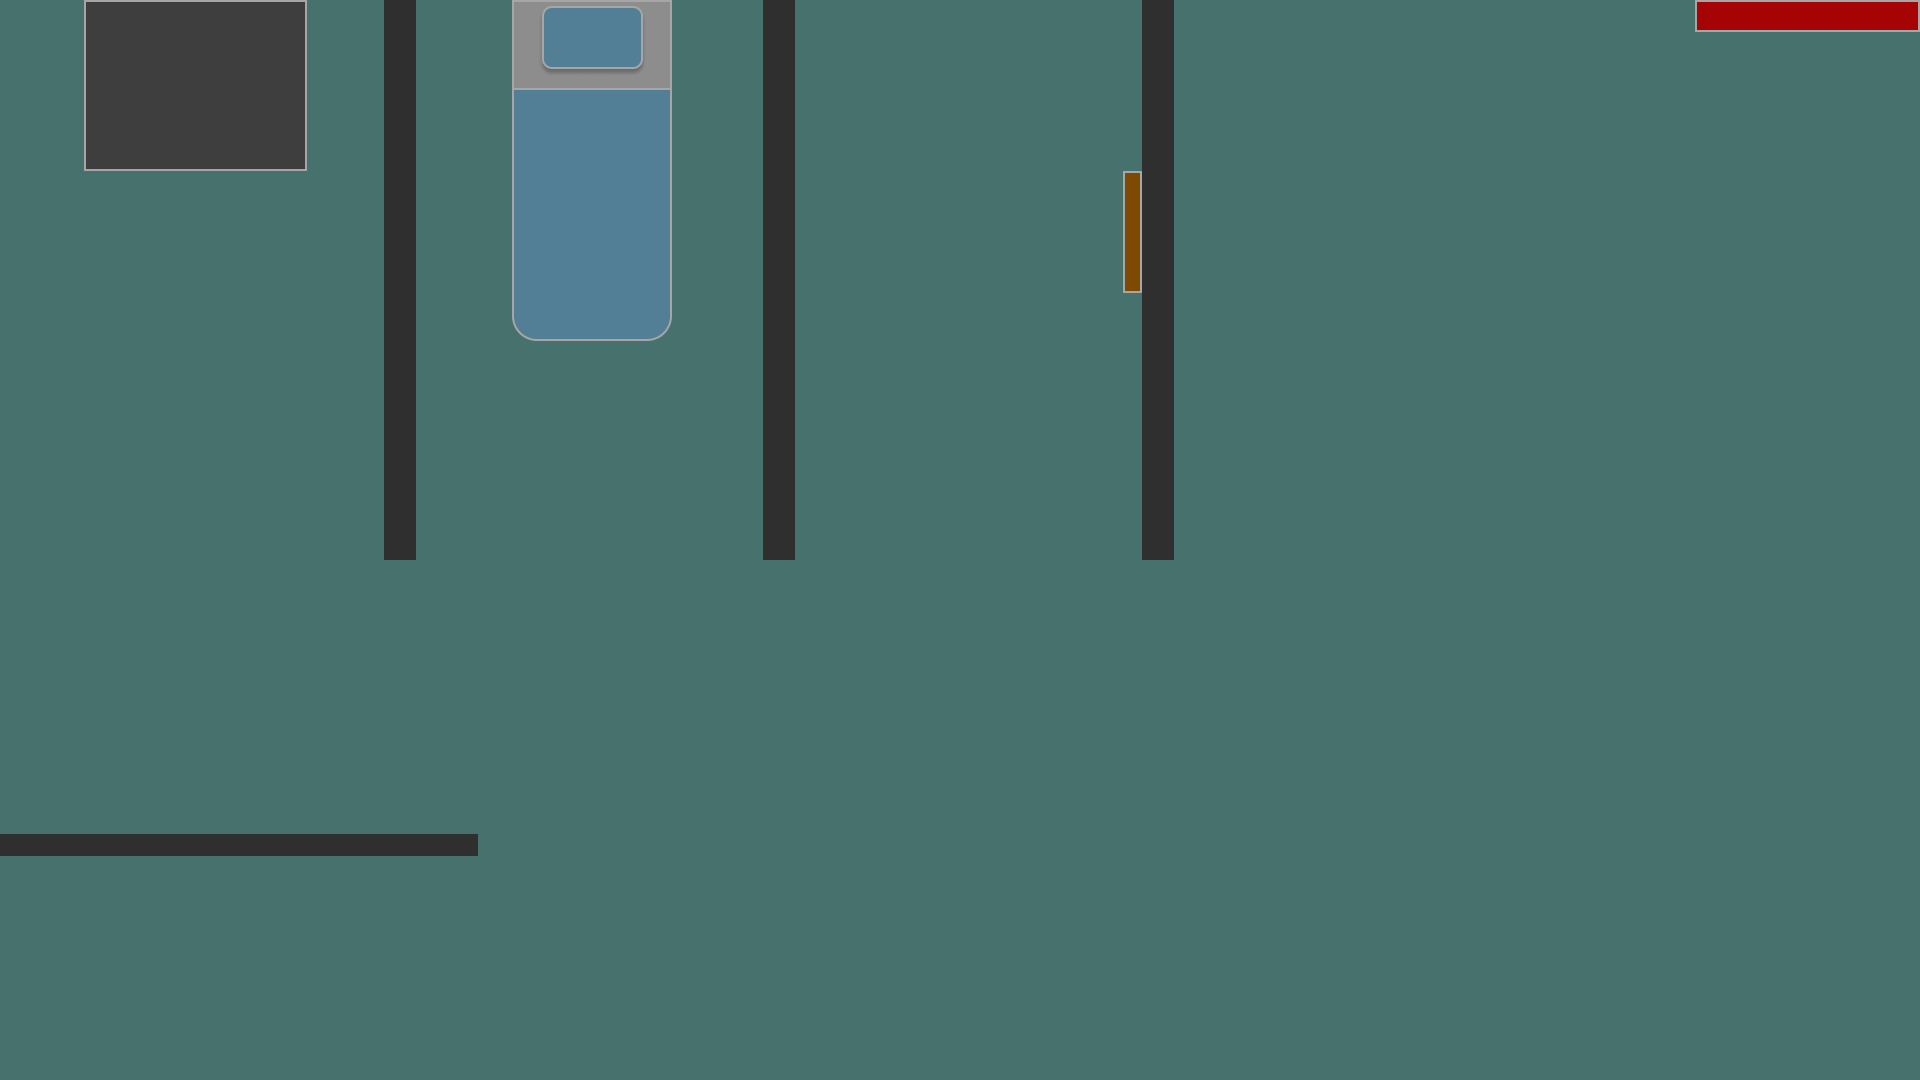
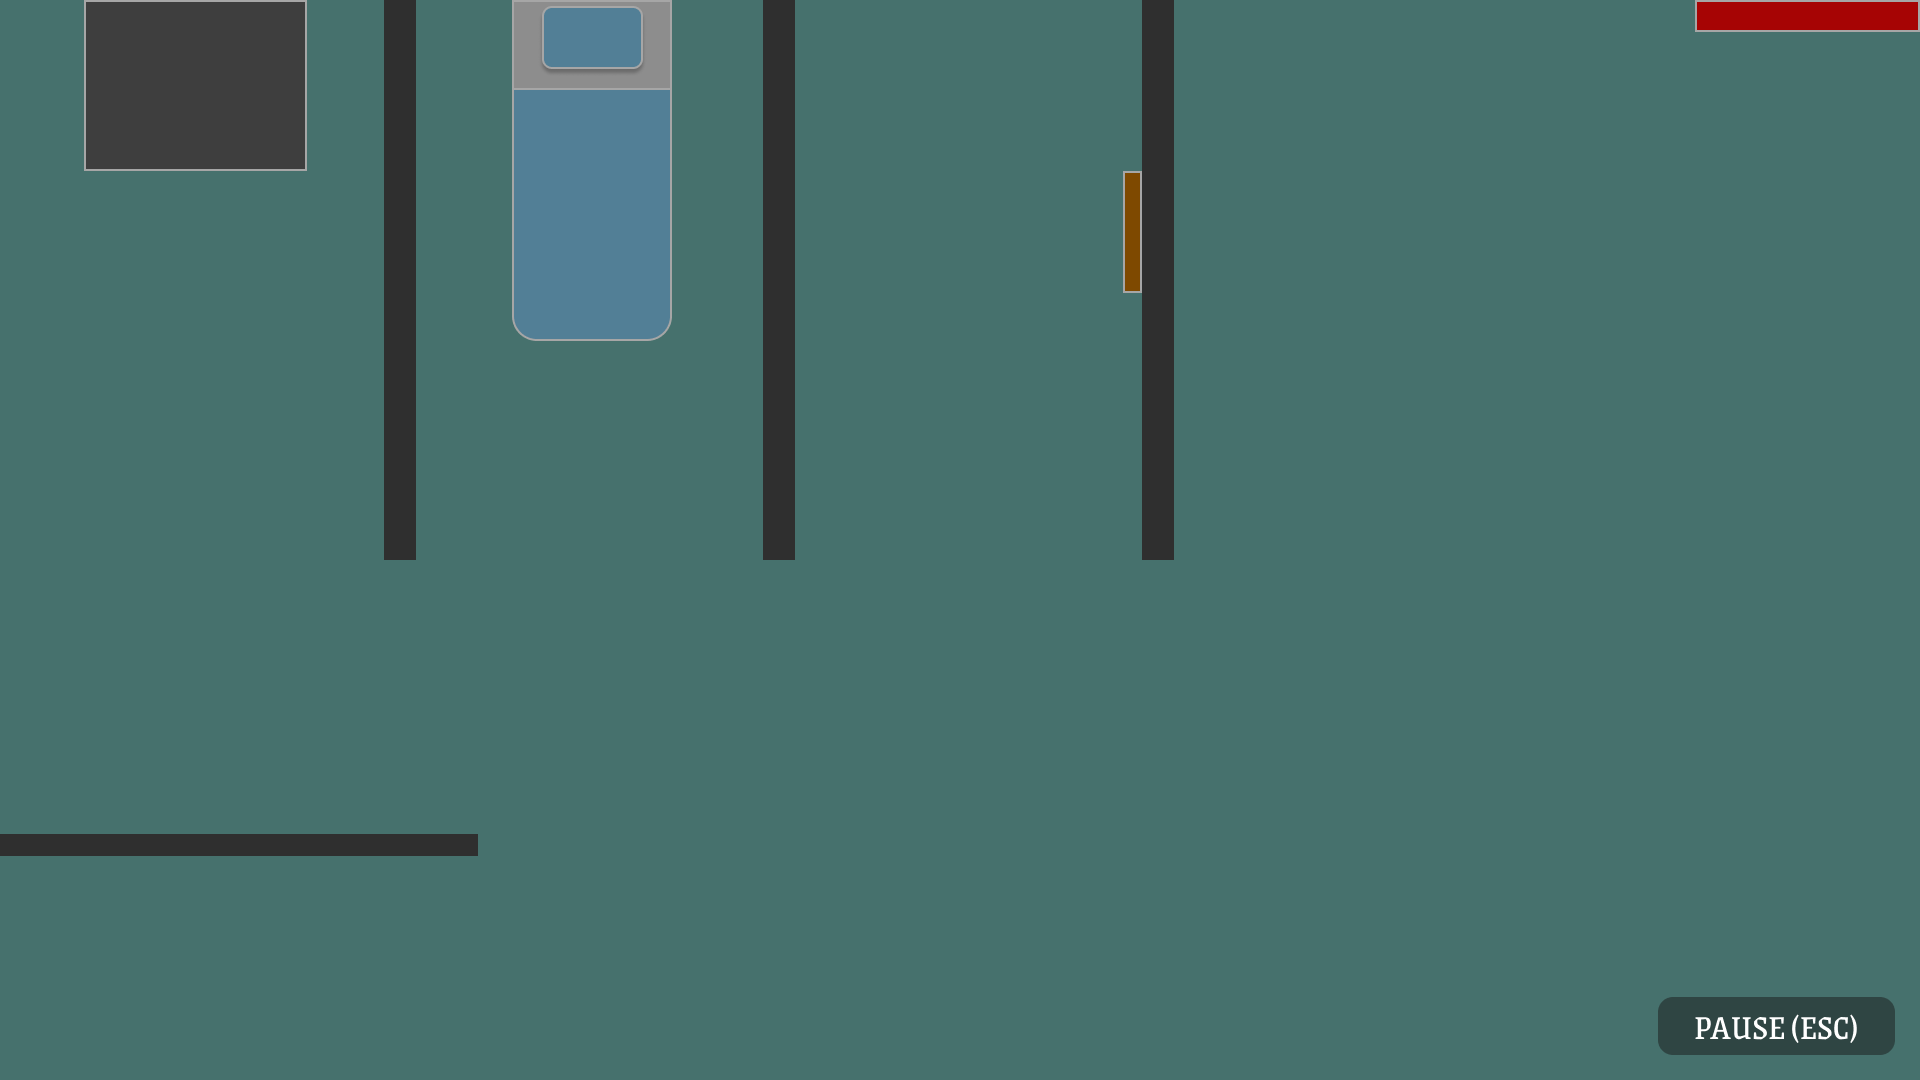
add start, pause menu, pause button assets

Changed region(s): [[0.8438, 0.9167, 1.0, 0.9778]]

diff --git a/GameEngine/lwjgl3/src/main/java/io/github/some_example_name/lwjgl3/abstract_engine/scene/PauseScene.java b/GameEngine/lwjgl3/src/main/java/io/github/some_example_name/lwjgl3/abstract_engine/scene/PauseScene.java
@@ -4,6 +4,7 @@ import com.badlogic.gdx.Gdx;
 import com.badlogic.gdx.Input;
 import com.badlogic.gdx.graphics.Texture;
 import com.badlogic.gdx.graphics.g2d.SpriteBatch;
+
 import io.github.some_example_name.lwjgl3.abstract_engine.io.IOManager;
 
 public class PauseScene extends Scene {
@@ -31,6 +32,9 @@ public class PauseScene extends Scene {
             System.out.println("[PauseScene] Resuming game...");
             sceneManager.popScene();
             sceneManager.setGameState(GameState.RUNNING);
+        } else if (IOManager.getInstance().getDynamicInput().isKeyJustPressed(Input.Keys.Q)) {
+            System.out.println("Exiting game...");
+            sceneManager.changeScene(new MenuScene(batch, sceneManager), GameState.MAIN_MENU);
         }
     }
 

diff --git a/GameEngine/lwjgl3/src/main/java/io/github/some_example_name/lwjgl3/abstract_engine/scene/MenuScene.java b/GameEngine/lwjgl3/src/main/java/io/github/some_example_name/lwjgl3/abstract_engine/scene/MenuScene.java
@@ -4,6 +4,7 @@ import com.badlogic.gdx.Gdx;
 import com.badlogic.gdx.Input;
 import com.badlogic.gdx.graphics.Texture;
 import com.badlogic.gdx.graphics.g2d.SpriteBatch;
+
 import io.github.some_example_name.lwjgl3.abstract_engine.io.IOManager;
 
 public class MenuScene extends Scene {
@@ -46,7 +47,7 @@ public class MenuScene extends Scene {
                     sceneManager.getWorld(),
                     sceneManager // ✅ FIX: Pass SceneManager
             ), GameState.RUNNING);
-        }
+        } 
     }
 
     @Override
